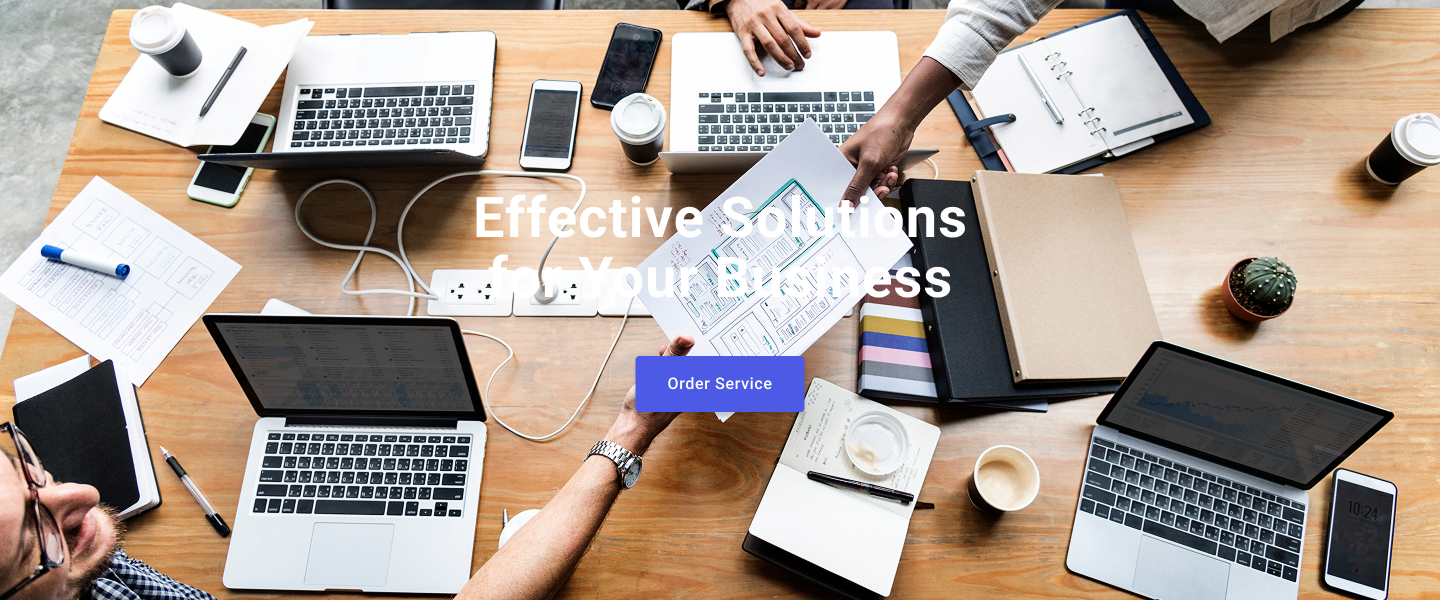
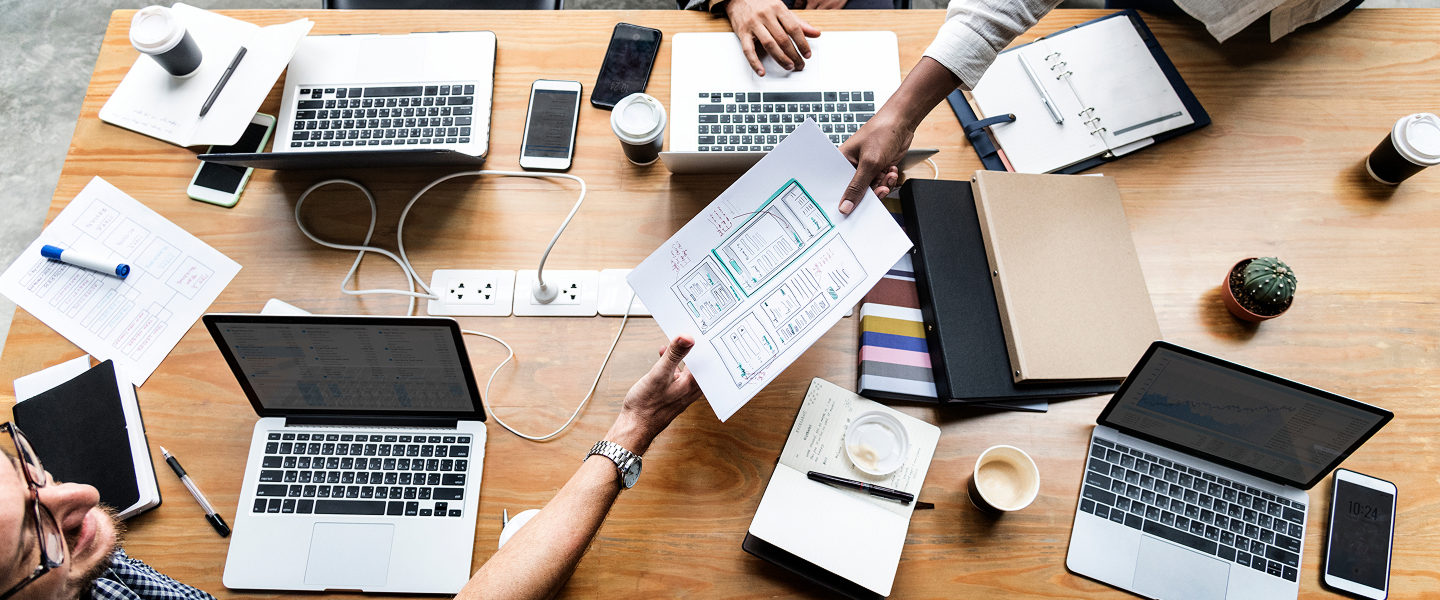
Module 4. Decorative Effects

diff --git a/index.html b/index.html
@@ -147,28 +147,37 @@
 
                   <ul class="team-social-list socials-list">
                     <li class="team-socials-item socials-item">
-                      <a class="socials-link" href="https://www.instagram.com/">
+                      <a
+                        class="socials-link"
+                        href="./images/icons.svg#instagram"
+                      >
                         <svg class="socials-icon" width="16" height="16">
                           <use href="./images/icons.svg#instagram"></use>
                         </svg>
                       </a>
                     </li>
                     <li class="team-socials-item socials-item">
-                      <a class="socials-link" href="https://x.com/">
+                      <a class="socials-link" href="./images/icons.svg#twitter">
                         <svg class="socials-icon" width="16" height="16">
                           <use href="./images/icons.svg#twitter"></use>
                         </svg>
                       </a>
                     </li>
                     <li class="team-socials-item socials-item">
-                      <a class="socials-link" href="https://www.facebook.com/">
+                      <a
+                        class="socials-link"
+                        href="./images/icons.svg#facebook"
+                      >
                         <svg class="socials-icon" width="16" height="16">
                           <use href="./images/icons.svg#facebook"></use>
                         </svg>
                       </a>
                     </li>
                     <li class="team-socials-item socials-item">
-                      <a class="socials-link" href="https://www.linkedin.com/">
+                      <a
+                        class="socials-link"
+                        href="./images/icons.svg#linkedin"
+                      >
                         <svg class="socials-icon" width="16" height="16">
                           <use href="./images/icons.svg#linkedin"></use>
                         </svg>
@@ -192,28 +201,37 @@
 
                   <ul class="socials-list">
                     <li class="team-socials-item socials-item">
-                      <a class="socials-link" href="https://www.instagram.com/">
+                      <a
+                        class="socials-link"
+                        href="./images/icons.svg#instagram"
+                      >
                         <svg class="socials-icon" width="16" height="16">
                           <use href="./images/icons.svg#instagram"></use>
                         </svg>
                       </a>
                     </li>
                     <li class="team-socials-item socials-item">
-                      <a class="socials-link" href="https://x.com/">
+                      <a class="socials-link" href="./images/icons.svg#twitter">
                         <svg class="socials-icon" width="16" height="16">
                           <use href="./images/icons.svg#twitter"></use>
                         </svg>
                       </a>
                     </li>
                     <li class="team-socials-item socials-item">
-                      <a class="socials-link" href="https://www.facebook.com/">
+                      <a
+                        class="socials-link"
+                        href="./images/icons.svg#facebook"
+                      >
                         <svg class="socials-icon" width="16" height="16">
                           <use href="./images/icons.svg#facebook"></use>
                         </svg>
                       </a>
                     </li>
                     <li class="team-socials-item socials-item">
-                      <a class="socials-link" href="https://www.linkedin.com/">
+                      <a
+                        class="socials-link"
+                        href="./images/icons.svg#linkedin"
+                      >
                         <svg class="socials-icon" width="16" height="16">
                           <use href="./images/icons.svg#linkedin"></use>
                         </svg>
@@ -237,28 +255,37 @@
 
                   <ul class="socials-list">
                     <li class="team-socials-item socials-item">
-                      <a class="socials-link" href="https://www.instagram.com/">
+                      <a
+                        class="socials-link"
+                        href="./images/icons.svg#instagram"
+                      >
                         <svg class="socials-icon" width="16" height="16">
                           <use href="./images/icons.svg#instagram"></use>
                         </svg>
                       </a>
                     </li>
                     <li class="team-socials-item socials-item">
-                      <a class="socials-link" href="https://x.com/">
+                      <a class="socials-link" href="./images/icons.svg#twitter">
                         <svg class="socials-icon" width="16" height="16">
                           <use href="./images/icons.svg#twitter"></use>
                         </svg>
                       </a>
                     </li>
                     <li class="team-socials-item socials-item">
-                      <a class="socials-link" href="https://www.facebook.com/">
+                      <a
+                        class="socials-link"
+                        href="./images/icons.svg#facebook"
+                      >
                         <svg class="socials-icon" width="16" height="16">
                           <use href="./images/icons.svg#facebook"></use>
                         </svg>
                       </a>
                     </li>
                     <li class="team-socials-item socials-item">
-                      <a class="socials-link" href="https://www.linkedin.com/">
+                      <a
+                        class="socials-link"
+                        href="./images/icons.svg#linkedin"
+                      >
                         <svg class="socials-icon" width="16" height="16">
                           <use href="./images/icons.svg#linkedin"></use>
                         </svg>
@@ -281,28 +308,37 @@
 
                   <ul class="socials-list">
                     <li class="team-socials-item socials-item">
-                      <a class="socials-link" href="https://www.instagram.com/">
+                      <a
+                        class="socials-link"
+                        href="./images/icons.svg#instagram"
+                      >
                         <svg class="socials-icon" width="16" height="16">
                           <use href="./images/icons.svg#instagram"></use>
                         </svg>
                       </a>
                     </li>
                     <li class="team-socials-item socials-item">
-                      <a class="socials-link" href="https://x.com/">
+                      <a class="socials-link" href="./images/icons.svg#twitter">
                         <svg class="socials-icon" width="16" height="16">
                           <use href="./images/icons.svg#twitter"></use>
                         </svg>
                       </a>
                     </li>
                     <li class="team-socials-item socials-item">
-                      <a class="socials-link" href="https://www.facebook.com/">
+                      <a
+                        class="socials-link"
+                        href="./images/icons.svg#facebook"
+                      >
                         <svg class="socials-icon" width="16" height="16">
                           <use href="./images/icons.svg#facebook"></use>
                         </svg>
                       </a>
                     </li>
                     <li class="team-socials-item socials-item">
-                      <a class="socials-link" href="https://www.linkedin.com/">
+                      <a
+                        class="socials-link"
+                        href="./images/icons.svg#linkedin"
+                      >
                         <svg class="socials-icon" width="16" height="16">
                           <use href="./images/icons.svg#linkedin"></use>
                         </svg>
@@ -464,7 +500,7 @@
           <p class="footer-media">Social media</p>
           <ul class="footer-socials-list socials-list">
             <li class="footer-socials-item socials-item">
-              <a class="socials-link" href="https://www.instagram.com/">
+              <a class="socials-link" href="./images/icons.svg#instagram">
                 <svg
                   class="footer-socials-icon socials-icon"
                   width="24"
@@ -475,7 +511,7 @@
               </a>
             </li>
             <li class="footer-socials-item socials-item">
-              <a class="socials-link" href="https://x.com/">
+              <a class="socials-link" href="./images/icons.svg#twitter">
                 <svg
                   class="footer-socials-icon socials-icon"
                   width="24"
@@ -486,7 +522,7 @@
               </a>
             </li>
             <li class="footer-socials-item socials-item">
-              <a class="socials-link" href="https://www.facebook.com/">
+              <a class="socials-link" href="./images/icons.svg#facebook">
                 <svg
                   class="footer-socials-icon socials-icon"
                   width="24"
@@ -497,7 +533,7 @@
               </a>
             </li>
             <li class="footer-socials-item socials-item">
-              <a class="socials-link" href="https://www.linkedin.com/">
+              <a class="socials-link" href="./images/icons.svg#linkedin">
                 <svg
                   class="footer-socials-icon socials-icon"
                   width="24"

diff --git a/css/hero.css b/css/hero.css
@@ -13,6 +13,8 @@
   max-width: 1440px;
   margin: 0 auto;
   background-color: #2e2f42;
+
+  padding: 188px 0;
 }
 
 .hero-title {
@@ -37,6 +39,7 @@
   box-shadow: 0 4px 4px 0 rgba(0, 0, 0, 0.15);
   background-color: #4d5ae5;
   color: #fff;
+  
   transition: 250ms ease-out;
   transition-property: background-color;
 }

diff --git a/css/common.css b/css/common.css
@@ -27,8 +27,7 @@ a {
   color: inherit;
 }
 button {
-  
-  cursor: pointer;
+    cursor: pointer;
 }
 address {
   font-style: normal;
@@ -38,6 +37,7 @@ img {
   max-width: 100%;
   height: auto;
 }
+
 /* Base styles*/
 .sr-only {
   position: absolute;

diff --git a/css/footer.css b/css/footer.css
@@ -7,7 +7,6 @@
   display: flex;
   align-items: flex-start;
   flex-wrap: wrap;
-  gap: 40px 120px;
 }
 
 .footer-wrapper {
@@ -25,7 +24,8 @@
 }
 
 .footer-socials {
-  margin: 0;
+
+  margin-left: 120px;
 }
 
 .footer-media {
